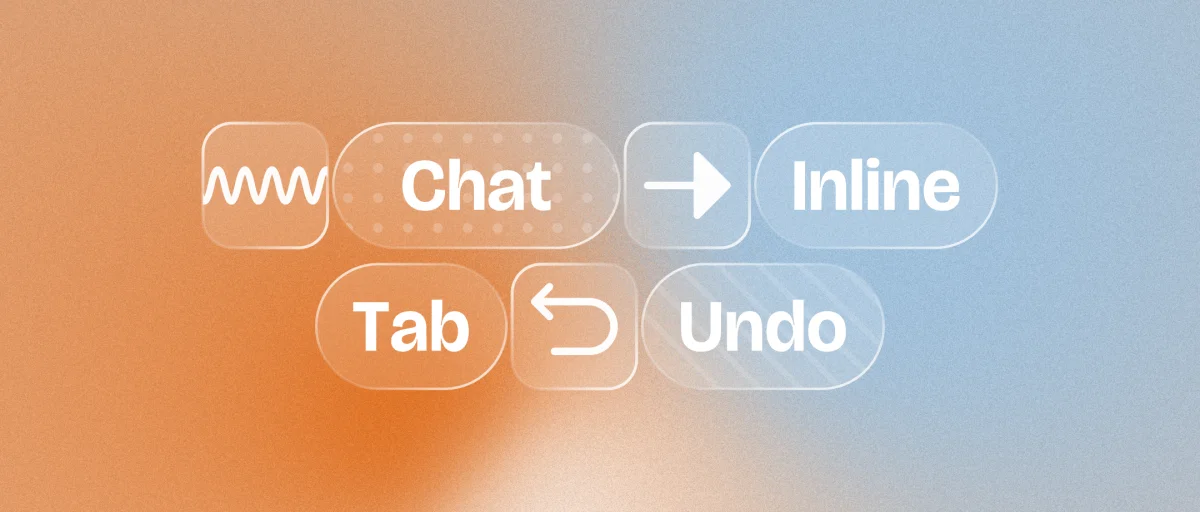
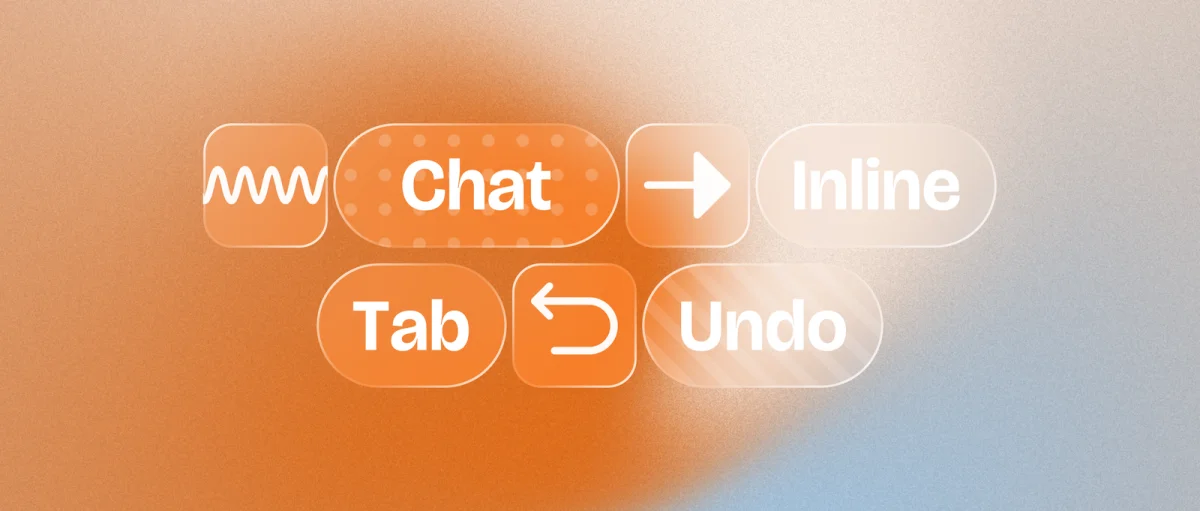
blog: beyond-chat-edit-in-place 换新封面（加 __stepShader 定格钩子 + 压缩）
- cover.html：shader 加 dist=0.45 / swirl=0.35 流动参数与 __stepShader 外部驱动钩子（截图/出 GIF 用），配色顺序调整
- cover.png 重新导出：4.6MB -> 1.4MB
- 重跑 extract-articles / build-card-covers / npm run build，卡片 webp 同步更新

diff --git a/docs/writing/assets/beyond-chat-edit-in-place/cover.html b/docs/writing/assets/beyond-chat-edit-in-place/cover.html
@@ -115,9 +115,9 @@
 .a-ne-radiate .hb-d4{animation:hb-pop 2.4s cubic-bezier(0.4,1.5,0.5,1) infinite;animation-delay:0.46s;}
 .a-ne-radiate .hb-d5{animation:hb-pop 2.4s cubic-bezier(0.4,1.5,0.5,1) infinite;animation-delay:0.58s;}
 @keyframes hb-pop{0%,10%{transform:scale(0.55);opacity:0.35}26%{transform:scale(1.18);opacity:1}38%,100%{transform:scale(1);opacity:1}}</style></head><body><div class="wrap"><canvas id="sh"></canvas><div class="stage"><div class="glass" style="left:16.920%;top:24.053%;width:10.377%;height:24.364%"></div><div class="glass" style="left:52.092%;top:24.053%;width:10.377%;height:24.364%"></div><div class="glass" style="left:42.679%;top:51.584%;width:10.377%;height:24.364%"></div><div class="glass pill dotted" style="left:27.764%;top:24.053%;width:23.861%;height:24.364%"></div><div class="glass pill" style="left:62.936%;top:24.053%;width:20.143%;height:24.364%"></div><div class="glass pill" style="left:26.354%;top:51.584%;width:15.858%;height:24.364%"></div><div class="glass pill striped" style="left:53.523%;top:51.584%;width:20.123%;height:24.364%"></div><svg xmlns="http://www.w3.org/2000/svg" viewBox="0 0 1080 460" width="1080" height="460"><defs><linearGradient id="edge" x1="0" y1="0" x2="1" y2="1"><stop offset="0" stop-color="#fff" stop-opacity="0.95"/><stop offset="0.42" stop-color="#fff" stop-opacity="0.14"/><stop offset="0.58" stop-color="#fff" stop-opacity="0.14"/><stop offset="1" stop-color="#fff" stop-opacity="0.95"/></linearGradient><pattern id="diag" patternUnits="userSpaceOnUse" width="26" height="26" patternTransform="rotate(-45)"><line x1="0" y1="0" x2="0" y2="26" stroke="#ffffff" stroke-opacity="0.13" stroke-width="10.5"/></pattern></defs><g transform="translate(182.7 110.6) rotate(0 56.0 56.0) scale(1.7511)"><clipPath id="ic239_167"><rect width="64" height="64" rx="15"/></clipPath><g clip-path="url(#ic239_167)"><g opacity="0.96" transform="translate(32 32) scale(1.16) translate(-32 -32)"><g class="ne-anim a-ne-travel"><path d="M-16 32 Q-13 18 -10 32 T-4 32 T2 32 T8 32 T14 32 T20 32 T26 32 T32 32 T38 32 T44 32 T50 32 T56 32 T62 32 T68 32 T74 32 T80 32 T86 32 T92 32" fill="none" stroke="#ffffff" stroke-width="3" stroke-linecap="round"/></g></g></g></g><g fill="#ffffff" transform="translate(360.25 142.64) scale(0.28119)"><g transform="translate(6.70 4.8)"><path d="M72.96 161.5Q53.94 161.5 40.1 155.29Q26.26 149.09 17.34 137.97Q8.42 126.86 4.21 112.36Q0 97.85 0 81.3Q0 64.19 4.36 49.36Q8.73 34.52 17.55 23.47Q26.38 12.41 39.98 6.2Q53.58 0 72.22 0Q88.3 0 100.12 4.62Q111.94 9.24 119.32 17.32Q126.7 25.4 129.77 36.01Q132.85 46.62 131.79 58.44L100.55 62.39Q100.75 51.74 97.38 44.11Q94.02 36.48 87.48 32.33Q80.94 28.18 71.24 28.18Q62.98 28.18 56.38 31.41Q49.79 34.64 45.13 41.12Q40.47 47.6 38.01 57.26Q35.54 66.93 35.54 79.81Q35.54 96.37 39.81 108.36Q44.07 120.36 52.59 126.86Q61.1 133.36 73.66 133.36Q85.09 133.36 92.02 128.19Q98.95 123.02 102.04 113.75Q105.13 104.47 104.31 92.49L136.37 95.51Q137.39 108.66 134.29 120.52Q131.2 132.38 123.55 141.65Q115.9 150.93 103.37 156.21Q90.85 161.5 72.96 161.5Z"/></g><g transform="translate(156.70 -0.2)"><path d="M0.08 163.22V100.83L0 0H34.01V31.39Q34.01 36.09 33.43 43.96Q32.84 51.82 31.82 60.94Q30.8 70.06 29.75 78.75Q28.69 87.44 27.99 93.94H30.14Q32.17 73.82 37.5 61.14Q42.82 48.46 51.92 42.55Q61.02 36.64 73.74 36.64Q93.66 36.64 103.31 50.9Q112.96 65.17 112.96 93.78V163.22H79.07V95.39Q79.07 80.36 74.98 73.47Q70.89 66.58 61.92 66.58Q53.74 66.58 47.48 72.55Q41.22 78.52 37.59 90.96Q33.97 103.41 33.97 122.59V163.22Z"/></g><g transform="translate(282.10 36.4)"><path d="M36.68 129.83Q27.24 129.83 18.89 126.5Q10.53 123.18 5.26 115.8Q0 108.42 0 96.17Q0 84.9 4.34 77.83Q8.69 70.77 16.11 66.44Q23.52 62.12 32.53 59.85Q41.53 57.58 50.65 55.93Q63.14 53.62 69.32 52.23Q75.5 50.84 77.68 48.91Q79.85 46.97 79.85 43.53Q79.85 35.54 74.15 31.35Q68.46 27.16 59.46 27.16Q53.86 27.16 48.3 29.24Q42.74 31.31 39.12 36.42Q35.5 41.53 35.5 50.73L5.17 48.26Q5.05 34.13 9.92 24.76Q14.8 15.38 23.03 10Q31.27 4.62 41.06 2.31Q50.84 0 60.55 0Q77.93 0 89.57 6.5Q101.22 12.99 107.07 25.42Q112.92 37.85 112.92 55.85V78.17Q112.96 86.19 112.98 94.33Q113 102.47 113.02 110.52Q113.04 118.56 113.04 126.58H83.37Q83.57 117.58 83.72 108.52Q83.88 99.46 84.04 89.44H82.51Q81.38 100.55 75.29 109.73Q69.2 118.91 59.36 124.37Q49.51 129.83 36.68 129.83ZM49.94 104.63Q54.76 104.63 59.94 102.73Q65.13 100.83 69.63 96.72Q74.13 92.61 76.95 85.86Q79.77 79.1 79.85 69.59L79.89 64.04L86.19 63.02Q84.11 66.23 79.4 68.13Q74.68 70.02 68.75 71.1Q62.82 72.18 56.77 73.29Q50.73 74.41 45.56 76.36Q40.39 78.32 37.18 81.65Q33.97 84.98 33.97 90.81Q33.97 97.42 38.5 101.02Q43.02 104.63 49.94 104.63Z"/></g><g transform="translate(404.30 11.9)"><path d="M54.84 153.79Q34.37 153.79 24.19 143.12Q14.01 132.45 14.01 110.38V54.52H0V32.57H2.07Q14.99 31 20.45 24.07Q25.91 17.14 27.12 3.17L27.4 0H47.52V27.83H76.83V55.31H47.52V107.44Q47.52 116.45 51.84 120.36Q56.17 124.27 62.78 124.27Q66.27 124.27 70 123.26Q73.74 122.24 76.83 120.36V150.38Q70.1 152.42 64.68 153.1Q59.26 153.79 54.84 153.79Z"/></g></g><g transform="translate(562.6 110.6) rotate(0 56.0 56.0) scale(1.7511)"><clipPath id="ic619_167"><rect width="64" height="64" rx="15"/></clipPath><g clip-path="url(#ic619_167)"><g opacity="0.96" transform="translate(32 32) scale(1.16) translate(-32 -32)"><g class="ne-anim a-ne-dart"><g transform="translate(5.60 5.60) scale(2.2)"><path d="M4 11.25C3.58579 11.25 3.25 11.5858 3.25 12C3.25 12.4142 3.58579 12.75 4 12.75H13.25V18C13.25 18.3034 13.4327 18.5768 13.713 18.6929C13.9932 18.809 14.3158 18.7449 14.5303 18.5304L20.5303 12.5304C20.671 12.3897 20.75 12.1989 20.75 12C20.75 11.8011 20.671 11.6103 20.5303 11.4697L14.5303 5.46969C14.3158 5.25519 13.9932 5.19103 13.713 5.30711C13.4327 5.4232 13.25 5.69668 13.25 6.00002V11.25H4Z" fill="#ffffff"/></g></g></g></g></g><g fill="#ffffff" transform="translate(712.09 142.64) scale(0.28119)"><g transform="translate(10.10 8)"><path d="M0 155V0H34.17V155Z"/></g><g transform="translate(63.20 36.4)"><path d="M0.08 126.58V59.53L0 3.29H29.08L28.22 55.5H30.18Q31.59 36.64 36.42 24.39Q41.25 12.13 50.12 6.07Q58.99 0 72.41 0Q92.73 0 102.84 13.74Q112.96 27.48 112.96 55.07V126.58H79.07V58.95Q79.07 44.07 74.7 36.81Q70.34 29.55 60.67 29.55Q52.57 29.55 46.56 35.17Q40.55 40.79 37.26 52.98Q33.97 65.17 33.97 85.17V126.58Z"/></g><g transform="translate(193.20 -0.2)"><path d="M0 163.22V0H33.9V163.22Z"/></g><g transform="translate(241.80 -3.4)"><path d="M3.44 166.43V43.13H37.34V166.43ZM20.2 32.64Q10.37 32.64 5.19 28.46Q0 24.27 0 16.39Q0 8.3 5.21 4.15Q10.41 0 20.19 0Q30.18 0 35.36 4.25Q40.55 8.49 40.55 16.44Q40.55 24.11 35.36 28.38Q30.16 32.64 20.2 32.64Z"/></g><g transform="translate(297.30 36.4)"><path d="M0.08 126.58V59.53L0 3.29H29.08L28.22 55.5H30.18Q31.59 36.64 36.42 24.39Q41.25 12.13 50.12 6.07Q58.99 0 72.41 0Q92.73 0 102.84 13.74Q112.96 27.48 112.96 55.07V126.58H79.07V58.95Q79.07 44.07 74.7 36.81Q70.34 29.55 60.67 29.55Q52.57 29.55 46.56 35.17Q40.55 40.79 37.26 52.98Q33.97 65.17 33.97 85.17V126.58Z"/></g><g transform="translate(424.00 36.4)"><path d="M61.18 129.83Q44.39 129.83 32.78 124.92Q21.18 120.01 13.9 111.34Q6.61 102.67 3.31 91.36Q0 80.04 0 67.21Q0 53.82 3.42 41.71Q6.85 29.59 13.97 20.22Q21.1 10.84 32.27 5.42Q43.45 0 58.95 0Q74.13 0 85.15 5.24Q96.17 10.49 102.92 19.94Q109.67 29.4 111.91 42Q114.14 54.6 111.91 69.48L21.1 70.92V51.78L86.15 50.57L81.3 61.65Q82.47 50.65 80.36 42.94Q78.24 35.23 73.02 31.12Q67.79 27.01 58.95 27.01Q49.55 27.01 43.72 31.8Q37.89 36.6 35.32 45.27Q32.76 53.94 32.76 65.6Q32.76 85.37 39.94 94.82Q47.13 104.27 61.53 104.27Q68.07 104.27 72.41 102.49Q76.76 100.71 79.4 97.52Q82.04 94.33 83.08 90.1Q84.12 85.88 83.84 81.02L114.96 82.82Q115.51 91.12 113 99.4Q110.5 107.68 104.25 114.53Q98.01 121.38 87.4 125.6Q76.8 129.83 61.18 129.83Z"/></g></g><g fill="#ffffff" transform="translate(317.00 269.28) scale(0.28119)"><g transform="translate(3.30 8)"><path d="M39.85 155V0H73.78V155ZM0 29.08V0H113.63V29.08Z"/></g><g transform="translate(124.70 36.4)"><path d="M36.68 129.83Q27.24 129.83 18.89 126.5Q10.53 123.18 5.26 115.8Q0 108.42 0 96.17Q0 84.9 4.34 77.83Q8.69 70.77 16.11 66.44Q23.52 62.12 32.53 59.85Q41.53 57.58 50.65 55.93Q63.14 53.62 69.32 52.23Q75.5 50.84 77.68 48.91Q79.85 46.97 79.85 43.53Q79.85 35.54 74.15 31.35Q68.46 27.16 59.46 27.16Q53.86 27.16 48.3 29.24Q42.74 31.31 39.12 36.42Q35.5 41.53 35.5 50.73L5.17 48.26Q5.05 34.13 9.92 24.76Q14.8 15.38 23.03 10Q31.27 4.62 41.06 2.31Q50.84 0 60.55 0Q77.93 0 89.57 6.5Q101.22 12.99 107.07 25.42Q112.92 37.85 112.92 55.85V78.17Q112.96 86.19 112.98 94.33Q113 102.47 113.02 110.52Q113.04 118.56 113.04 126.58H83.37Q83.57 117.58 83.72 108.52Q83.88 99.46 84.04 89.44H82.51Q81.38 100.55 75.29 109.73Q69.2 118.91 59.36 124.37Q49.51 129.83 36.68 129.83ZM49.94 104.63Q54.76 104.63 59.94 102.73Q65.13 100.83 69.63 96.72Q74.13 92.61 76.95 85.86Q79.77 79.1 79.85 69.59L79.89 64.04L86.19 63.02Q84.11 66.23 79.4 68.13Q74.68 70.02 68.75 71.1Q62.82 72.18 56.77 73.29Q50.73 74.41 45.56 76.36Q40.39 78.32 37.18 81.65Q33.97 84.98 33.97 90.81Q33.97 97.42 38.5 101.02Q43.02 104.63 49.94 104.63Z"/></g><g transform="translate(254.40 -0.2)"><path d="M71.28 166.47Q60.55 166.47 52.39 161.67Q44.23 156.88 38.85 147.45Q33.47 138.01 30.92 124.16H29.2L29.86 163.22H0L0.08 116.56L0 0H33.97V35.19Q33.97 41.57 33.41 49.02Q32.84 56.48 31.78 64.62Q30.73 72.76 29.28 81.49H31.43Q33.5 66.11 38.91 56.19Q44.31 46.27 52.94 41.45Q61.57 36.64 72.8 36.64Q86.62 36.64 96.89 43.72Q107.17 50.81 112.88 64.9Q118.6 78.99 118.6 100.24Q118.6 122.94 112.3 137.58Q105.99 152.22 95.27 159.34Q84.55 166.47 71.28 166.47ZM59.96 139.11Q67.75 139.11 73.17 134.29Q78.6 129.48 81.43 121.24Q84.27 113 84.27 102.79Q84.27 92.37 81.57 83.84Q78.87 75.31 73.41 70.26Q67.95 65.21 59.93 65.21Q55.5 65.21 51.49 66.89Q47.48 68.58 44.29 71.73Q41.1 74.88 38.73 79.3Q36.36 83.72 35.03 89.28Q33.7 94.84 33.7 101.14V102.86Q33.7 110.93 35.7 117.56Q37.69 124.2 41.2 129.07Q44.7 133.94 49.51 136.53Q54.33 139.11 59.96 139.11Z"/></g></g><g transform="translate(460.9 237.3) rotate(0 56.0 56.0) scale(1.7511)"><clipPath id="ic517_293"><rect width="64" height="64" rx="15"/></clipPath><g clip-path="url(#ic517_293)"><g opacity="0.96" transform="translate(32 32) scale(1.16) translate(-32 -32)"><g class="ne-anim a-ne-jelly"><g transform="translate(5.60 5.60) scale(2.2)"><path fill-rule="evenodd" clip-rule="evenodd" d="M7.53033 3.46967C7.82322 3.76256 7.82322 4.23744 7.53033 4.53033L5.81066 6.25H15C18.1756 6.25 20.75 8.82436 20.75 12C20.75 15.1756 18.1756 17.75 15 17.75H8.00001C7.58579 17.75 7.25001 17.4142 7.25001 17C7.25001 16.5858 7.58579 16.25 8.00001 16.25H15C17.3472 16.25 19.25 14.3472 19.25 12C19.25 9.65279 17.3472 7.75 15 7.75H5.81066L7.53033 9.46967C7.82322 9.76256 7.82322 10.2374 7.53033 10.5303C7.23744 10.8232 6.76256 10.8232 6.46967 10.5303L3.46967 7.53033C3.17678 7.23744 3.17678 6.76256 3.46967 6.46967L6.46967 3.46967C6.76256 3.17678 7.23744 3.17678 7.53033 3.46967Z" fill="#ffffff"/></g></g></g></g></g><g fill="#ffffff" transform="translate(610.43 269.28) scale(0.28119)"><g transform="translate(9.40 8)"><path d="M63.88 158.33Q50.92 158.33 40.59 155.35Q30.26 152.38 22.68 146.84Q15.11 141.3 10.06 133.51Q5.01 125.72 2.51 115.84Q0 105.96 0 94.33V0H33.94V92.53Q33.94 104.66 37.58 112.57Q41.22 120.48 47.87 124.24Q54.52 127.99 63.88 127.99Q73.51 127.99 80.14 124.22Q86.78 120.44 90.4 112.63Q94.02 104.82 94.02 92.53V0H127.91V94.33Q127.91 124.86 111.53 141.59Q95.15 158.33 63.88 158.33Z"/></g><g transform="translate(155.80 36.4)"><path d="M0.08 126.58V59.53L0 3.29H29.08L28.22 55.5H30.18Q31.59 36.64 36.42 24.39Q41.25 12.13 50.12 6.07Q58.99 0 72.41 0Q92.73 0 102.84 13.74Q112.96 27.48 112.96 55.07V126.58H79.07V58.95Q79.07 44.07 74.7 36.81Q70.34 29.55 60.67 29.55Q52.57 29.55 46.56 35.17Q40.55 40.79 37.26 52.98Q33.97 65.17 33.97 85.17V126.58Z"/></g><g transform="translate(282.50 -0.2)"><path d="M47.4 166.47Q34.13 166.47 23.39 159.34Q12.64 152.22 6.32 137.58Q0 122.94 0 100.44Q0 79.18 5.73 64.99Q11.47 50.81 21.9 43.72Q32.33 36.64 46.19 36.64Q57.38 36.64 65.84 41.35Q74.29 46.07 79.69 56.01Q85.09 65.95 87.21 81.61H89.36Q88.11 72.84 86.97 64.84Q85.84 56.83 85.27 49.59Q84.7 42.35 84.7 36.09V0H118.68L118.56 117.11L118.72 163.22H88.85L89.44 124.16H87.72Q85.02 138.17 79.63 147.6Q74.25 157.04 66.27 161.75Q58.28 166.47 47.4 166.47ZM58.59 139.11Q64.27 139.11 69.1 136.49Q73.94 133.86 77.44 128.95Q80.94 124.04 82.94 117.4Q84.94 110.77 84.94 102.79V101.1Q84.94 94.84 83.61 89.3Q82.28 83.76 79.91 79.36Q77.54 74.96 74.27 71.79Q71 68.61 67.01 66.91Q63.02 65.21 58.59 65.21Q50.77 65.21 45.29 70.26Q39.81 75.31 37.07 83.74Q34.33 92.18 34.33 102.59Q34.33 112.81 37.16 121.14Q40 129.48 45.42 134.29Q50.84 139.11 58.59 139.11Z"/></g><g transform="translate(415.90 36.4)"><path d="M60.4 129.83Q42.86 129.83 29.16 122.69Q15.46 115.55 7.73 101.16Q0 86.78 0 65.09Q0 42.7 8 28.34Q16.01 13.97 29.75 6.99Q43.49 0 60.75 0Q78.63 0 92.22 7.18Q105.8 14.36 113.43 28.77Q121.06 43.17 121.06 65.05Q121.06 87.48 113.1 101.83Q105.13 116.17 91.4 123Q77.66 129.83 60.4 129.83ZM61.14 104.43Q69.36 104.43 75.03 100.05Q80.71 95.66 83.72 87.19Q86.74 78.71 86.74 66.89Q86.74 54.09 83.51 45.23Q80.28 36.36 74.27 31.57Q68.26 26.77 59.81 26.77Q51.78 26.77 46.09 31.23Q40.39 35.7 37.36 44.23Q34.33 52.76 34.33 64.7Q34.33 83.45 41.43 93.94Q48.54 104.43 61.14 104.43Z"/></g></g></svg></div></div><script>(function(){
-var CFG={"colors":["#FAEADF","#E66F1B","#A5C7E3"],"dist":0,"swirl":0,"grain":0.27,"speed":1,"W":1080,"H":460};
+var CFG={"colors":["#FAEADF","#A5C7E3","#E66F1B"],"dist":0.45,"swirl":0.35,"grain":0.27,"speed":1,"W":1080,"H":460};
 var VERT="#version 300 es\nin vec2 a_pos; out vec2 v_uv;\nvoid main(){ v_uv=a_pos*0.5+0.5; gl_Position=vec4(a_pos,0.0,1.0); }";
-var FRAG="#version 300 es\nprecision highp float;\nin vec2 v_uv; out vec4 fragColor;\nuniform float u_time; uniform float u_aspect;\nuniform vec4 u_colors[5]; uniform float u_colorsCount;\nuniform float u_distortion; uniform float u_swirl; uniform float u_grain;\nfloat hash21(vec2 p){ p=fract(p*vec2(0.3183099,0.3678794))+0.1; p+=dot(p,p+19.19); return fract(p.x*p.y); }\nfloat valueNoise(vec2 st){ vec2 i=floor(st),f=fract(st); float a=hash21(i),b=hash21(i+vec2(1,0)),c=hash21(i+vec2(0,1)),d=hash21(i+vec2(1,1)); vec2 u=f*f*(3.0-2.0*f); return mix(mix(a,b,u.x),mix(c,d,u.x),u.y); }\nvec2 rot(vec2 p,float th){ return mat2(cos(th),sin(th),-sin(th),cos(th))*p; }\nvec2 getPos(int i,float t){ float a=float(i)*0.37; float b=0.6+fract(float(i)/3.0)*0.9; float c=0.8+fract(float(i+1)/4.0); return 0.5+0.5*vec2(sin(t*b+a),cos(t*c+a*1.5)); }\nvoid main(){\n  vec2 uv=v_uv; vec2 uvSq=(uv-0.5)*vec2(u_aspect,1.0)+0.5;\n  vec2 grainUV=uv*vec2(u_aspect,1.0)*1000.0;\n  float mixerGrain=0.4*u_grain*(valueNoise(grainUV)-0.5);\n  float t=0.5*(u_time+41.5);\n  float radius=smoothstep(0.0,1.0,length(uvSq-0.5)); float center=1.0-radius;\n  for(float i=1.0;i<=2.0;i++){\n    uvSq.x+=u_distortion*center/i*sin(t+i*0.4*smoothstep(0.0,1.0,uvSq.y))*cos(0.2*t+i*2.4*smoothstep(0.0,1.0,uvSq.y));\n    uvSq.y+=u_distortion*center/i*cos(t+i*2.0*smoothstep(0.0,1.0,uvSq.x));\n  }\n  vec2 uvR=uvSq-0.5; float angle=3.0*u_swirl*radius; uvR=rot(uvR,-angle); uvR+=0.5;\n  vec3 color=vec3(0.0); float totalWeight=0.0;\n  for(int i=0;i<5;i++){\n    if(i>=int(u_colorsCount))break;\n    vec2 pos=getPos(i,t)+mixerGrain; float d=length(uvR-pos); d=pow(d,3.5); float w=1.0/(d+1e-3);\n    color+=u_colors[i].rgb*u_colors[i].a*w; totalWeight+=w;\n  }\n  color/=max(1e-4,totalWeight);\n  float go=valueNoise(rot(grainUV,1.0)+vec2(3.0)); go=mix(go,valueNoise(rot(grainUV,2.0)+vec2(-1.0)),0.5); go=pow(go,1.3);\n  float goV=go*2.0-1.0; float goStrength=pow(u_grain*abs(goV),0.8);\n  color=mix(color,vec3(step(0.0,goV)),0.35*goStrength);\n  fragColor=vec4(color,1.0);\n}";
+var FRAG="#version 300 es\nprecision highp float;\nin vec2 v_uv; out vec4 fragColor;\nuniform float u_time; uniform float u_aspect;\nuniform vec4 u_colors[5]; uniform float u_colorsCount;\nuniform float u_distortion; uniform float u_swirl; uniform float u_grain;\nfloat hash21(vec2 p){ p=fract(p*vec2(0.3183099,0.3678794))+0.1; p+=dot(p,p+19.19); return fract(p.x*p.y); }\nfloat valueNoise(vec2 st){ vec2 i=floor(st),f=fract(st); float a=hash21(i),b=hash21(i+vec2(1,0)),c=hash21(i+vec2(0,1)),d=hash21(i+vec2(1,1)); vec2 u=f*f*(3.0-2.0*f); return mix(mix(a,b,u.x),mix(c,d,u.x),u.y); }\nvec2 rot(vec2 p,float th){ return mat2(cos(th),sin(th),-sin(th),cos(th))*p; }\nvec2 getPos(int i,float t){ float a=float(i)*0.37; float b=0.6+fract(float(i)/3.0)*0.9; float c=0.8+fract(float(i+1)/4.0); return 0.5+0.5*vec2(sin(t*b+a),cos(t*c+a*1.5)); }\nvoid main(){\n  vec2 uv=v_uv; vec2 uvSq=(uv-0.5)*vec2(u_aspect,1.0)+0.5;\n  vec2 grainUV=uv*vec2(u_aspect,1.0)*1000.0;\n  float mixerGrain=0.4*u_grain*(valueNoise(grainUV)-0.5);\n  float t=0.5*(u_time+110.0);\n  float radius=smoothstep(0.0,1.0,length(uvSq-0.5)); float center=1.0-radius;\n  for(float i=1.0;i<=2.0;i++){\n    uvSq.x+=u_distortion*center/i*sin(t+i*0.4*smoothstep(0.0,1.0,uvSq.y))*cos(0.2*t+i*2.4*smoothstep(0.0,1.0,uvSq.y));\n    uvSq.y+=u_distortion*center/i*cos(t+i*2.0*smoothstep(0.0,1.0,uvSq.x));\n  }\n  vec2 uvR=uvSq-0.5; float angle=3.0*u_swirl*radius; uvR=rot(uvR,-angle); uvR+=0.5;\n  vec3 color=vec3(0.0); float totalWeight=0.0;\n  for(int i=0;i<5;i++){\n    if(i>=int(u_colorsCount))break;\n    vec2 pos=getPos(i,t)+mixerGrain; float d=length(uvR-pos); d=pow(d,3.5); float w=1.0/(d+1e-3);\n    color+=u_colors[i].rgb*u_colors[i].a*w; totalWeight+=w;\n  }\n  color/=max(1e-4,totalWeight);\n  float go=valueNoise(rot(grainUV,1.0)+vec2(3.0)); go=mix(go,valueNoise(rot(grainUV,2.0)+vec2(-1.0)),0.5); go=pow(go,1.3);\n  float goV=go*2.0-1.0; float goStrength=pow(u_grain*abs(goV),0.8);\n  color=mix(color,vec3(step(0.0,goV)),0.35*goStrength);\n  fragColor=vec4(color,1.0);\n}";
 var cv=document.getElementById("sh"); var gl=cv.getContext("webgl2",{antialias:false,premultipliedAlpha:false});
 if(!gl){cv.style.display="none";return;}
 function co(t,s){var sh=gl.createShader(t);gl.shaderSource(sh,s);gl.compileShader(sh);return sh;}
@@ -128,8 +128,8 @@ function h2r(h){h=h.replace("#","");if(h.length===3)h=h[0]+h[0]+h[1]+h[1]+h[2]+h
 gl.uniform1f(U.count,3);var arr=new Float32Array(20);CFG.colors.forEach(function(hex,i){var c=h2r(hex);arr[i*4]=c[0];arr[i*4+1]=c[1];arr[i*4+2]=c[2];arr[i*4+3]=1;});gl.uniform4fv(U.colors,arr);
 gl.uniform1f(U.dist,CFG.dist);gl.uniform1f(U.swirl,CFG.swirl);gl.uniform1f(U.grain,CFG.grain);
 function size(){var d=Math.min(2,window.devicePixelRatio||1);var r=cv.getBoundingClientRect();var w=Math.max(2,Math.round(r.width*d)),hh=Math.max(2,Math.round(r.height*d));if(cv.width!==w||cv.height!==hh){cv.width=w;cv.height=hh;}gl.viewport(0,0,cv.width,cv.height);gl.uniform1f(U.aspect,cv.width/cv.height);}
-var t0=null;var reduce=window.matchMedia&&window.matchMedia("(prefers-reduced-motion: reduce)").matches;
-function frame(now){size();if(t0===null)t0=now;gl.uniform1f(U.time,(now-t0)/1000*CFG.speed);gl.drawArrays(gl.TRIANGLES,0,6);if(!reduce)requestAnimationFrame(frame);}
+var t0=null;var reduce=window.matchMedia&&window.matchMedia("(prefers-reduced-motion: reduce)").matches;var extDriven=false;window.__shaderRate=CFG.speed;window.__stepShader=function(t){extDriven=true;size();gl.uniform1f(U.time,t);gl.drawArrays(gl.TRIANGLES,0,6);};
+function frame(now){if(extDriven)return;size();if(t0===null)t0=now;gl.uniform1f(U.time,(now-t0)/1000*CFG.speed);gl.drawArrays(gl.TRIANGLES,0,6);if(!reduce)requestAnimationFrame(frame);}
 if(reduce){size();gl.uniform1f(U.time,3.0);gl.drawArrays(gl.TRIANGLES,0,6);}else{requestAnimationFrame(frame);}
 window.addEventListener("resize",size);
 })();</script></body></html>
